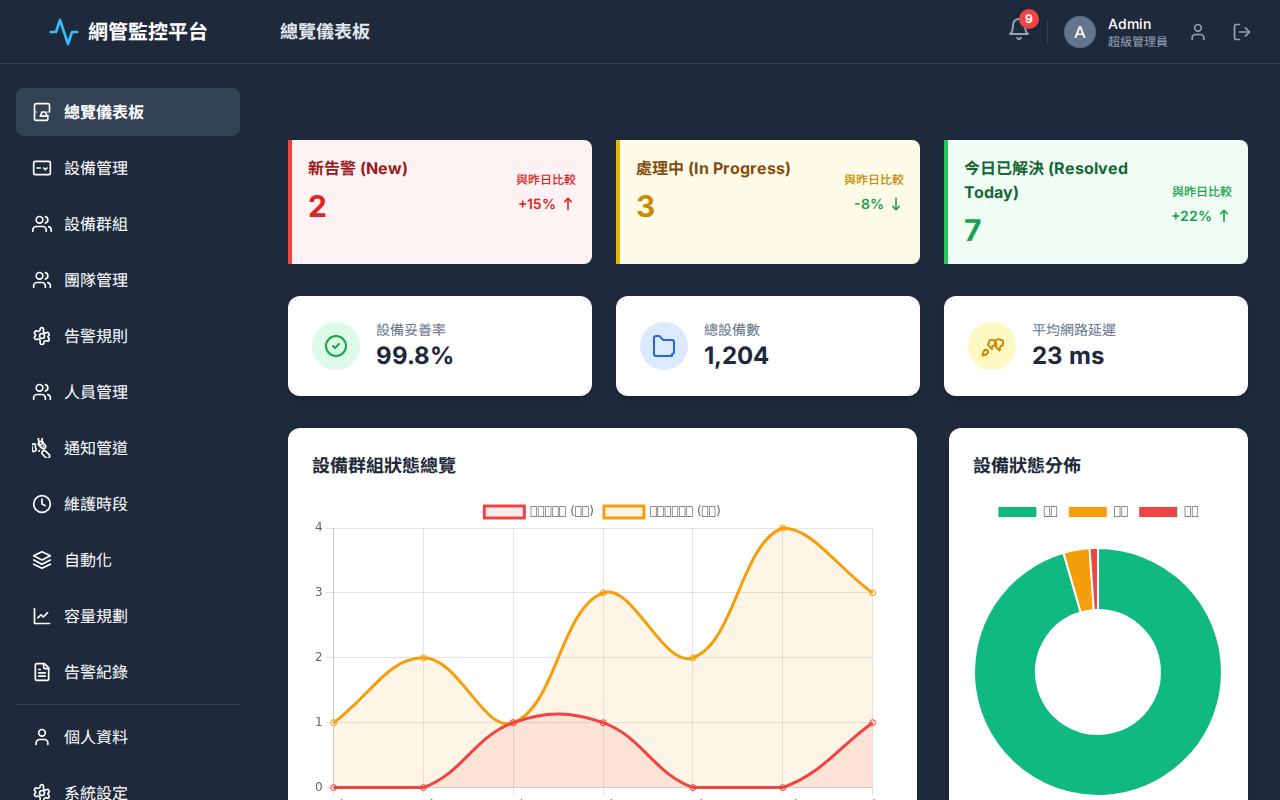
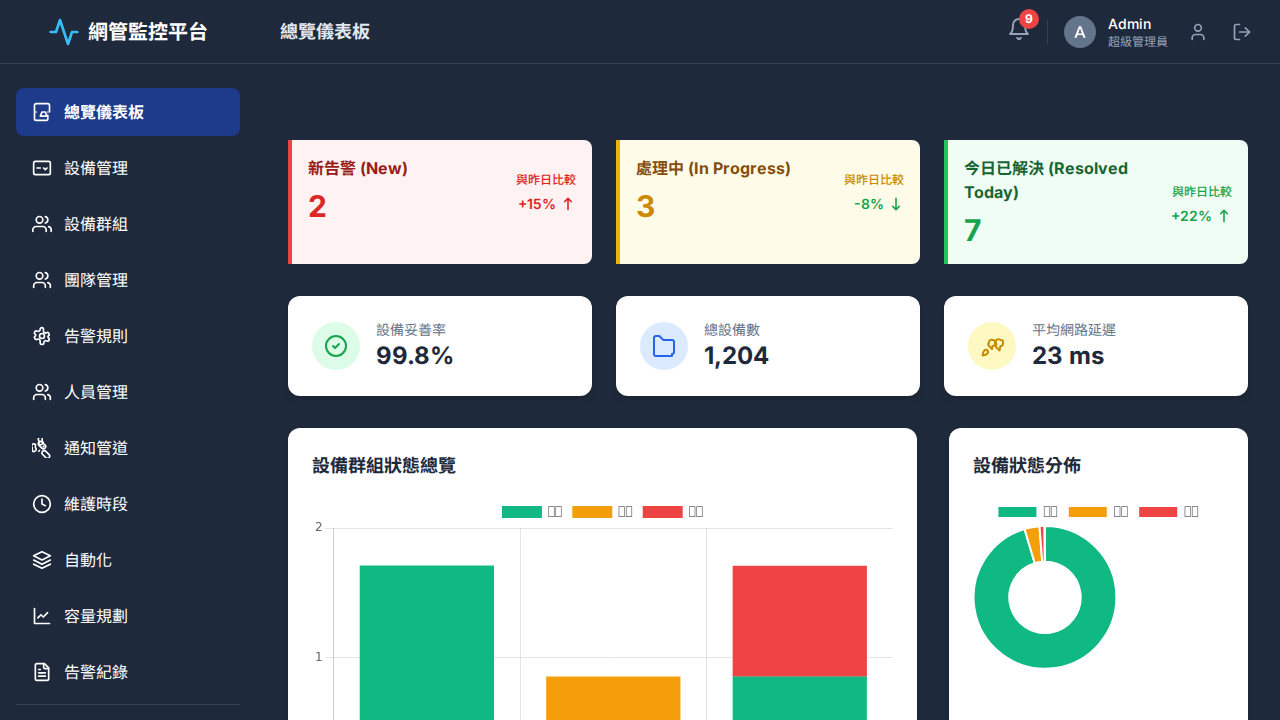
This commit introduces several UI improvements and fixes across the application.
Key changes include:

1.  **Profile Page**: The "Team Affiliation" field on the personal profile page has been changed from an editable multi-select dropdown to a read-only tag display. This improves clarity and prevents unintended edits.

2.  **Dashboard Chart**: The "Device Group Status Overview" chart on the dashboard has been corrected. It now uses a stacked bar chart to accurately display the count of devices in normal, warning, and error states for each device group, replacing the previous, incorrect line chart.

3.  **Input Field Styles**: A global CSS style has been added to darken the borders of all input fields, improving their visibility and contrast against white backgrounds, based on user feedback.

diff --git a/demo-page.html b/demo-page.html
@@ -89,6 +89,28 @@
       border-color: #3b82f6;
     }
 
+    /* Custom styles for better input visibility */
+    input[type="text"],
+    input[type="password"],
+    input[type="email"],
+    input[type="number"],
+    input[type="date"],
+    select,
+    textarea {
+      border: 1px solid #94a3b8; /* Corresponds to slate-400 */
+    }
+
+    input[type="text"]:focus,
+    input[type="password"]:focus,
+    input[type="email"]:focus,
+    input[type="number"]:focus,
+    input[type="date"]:focus,
+    select:focus,
+    textarea:focus {
+      border-color: #3b82f6; /* Corresponds to blue-500 */
+      box-shadow: 0 0 0 2px #bfdbfe; /* A ring effect like Tailwind's focus rings */
+    }
+
     /* Responsive Table Styles */
     @media (max-width: 768px) {
       .rwd-table thead {
@@ -1059,11 +1081,10 @@
                   <p id="profile-role" class="md:col-span-3 text-slate-800"></p>
                 </div>
                 <div class="grid grid-cols-1 md:grid-cols-4 items-start gap-4">
-                  <label for="profile-teams-select" class="font-medium text-slate-700 pt-2">所屬團隊</label>
-                  <select id="profile-teams-select" multiple
-                    class="md:col-span-3 block w-full rounded-md border-slate-300 shadow-sm focus:border-blue-500 focus:ring-blue-500 sm:text-sm">
-                    <!-- Options will be populated by JavaScript -->
-                  </select>
+                  <label class="font-medium text-slate-700 pt-1">所屬團隊</label>
+                  <div id="profile-teams-tags" class="md:col-span-3 flex flex-wrap gap-2">
+                    <!-- Tags will be populated by JavaScript -->
+                  </div>
                 </div>
                 <div class="grid grid-cols-1 md:grid-cols-4 items-center gap-4">
                   <label for="profile-language-select" class="font-medium text-slate-700">語言</label>
@@ -1468,28 +1489,55 @@
       // Chart.js Initialization
       const statusCtx = document.getElementById('statusChart').getContext('2d');
       new Chart(statusCtx, { type: 'doughnut', data: { labels: ['正常', '警告', '異常'], datasets: [{ data: [1150, 41, 13], backgroundColor: ['#10b981', '#f59e0b', '#ef4444'], hoverOffset: 4 }] }, options: { responsive: true, maintainAspectRatio: false } });
+    });
 
+    let groupStatusChartInstance = null; // To hold the chart instance
+
+    function renderGroupStatusChart() {
       const groupStatusCtx = document.getElementById('groupStatusChart').getContext('2d');
-      new Chart(groupStatusCtx, {
-        type: 'line',
+
+      // 1. Prepare data
+      const labels = mockData.deviceGroups.map(g => g.name);
+      const statuses = { normal: [], warning: [], error: [] };
+
+      mockData.deviceGroups.forEach(group => {
+        const counts = { normal: 0, warning: 0, error: 0 };
+        group.memberIds.forEach(deviceId => {
+          const device = mockData.devices.find(d => d.id === deviceId);
+          if (device) {
+            counts[device.status]++;
+          }
+        });
+        statuses.normal.push(counts.normal);
+        statuses.warning.push(counts.warning);
+        statuses.error.push(counts.error);
+      });
+
+      // 2. Destroy old chart if it exists
+      if (groupStatusChartInstance) {
+        groupStatusChartInstance.destroy();
+      }
+
+      // 3. Create new chart
+      groupStatusChartInstance = new Chart(groupStatusCtx, {
+        type: 'bar',
         data: {
-          labels: ['-6d', '-5d', '-4d', '-3d', '-2d', 'Yesterday', 'Today'],
+          labels: labels,
           datasets: [
             {
-              label: '核心交換器 (異常)',
-              data: [0, 0, 1, 1, 0, 0, 1],
-              borderColor: '#ef4444',
-              backgroundColor: 'rgba(239, 68, 68, 0.1)',
-              fill: true,
-              tension: 0.4
+              label: '正常',
+              data: statuses.normal,
+              backgroundColor: '#10b981',
             },
             {
-              label: '總公司防火牆 (警告)',
-              data: [1, 2, 1, 3, 2, 4, 3],
-              borderColor: '#f59e0b',
-              backgroundColor: 'rgba(245, 158, 11, 0.1)',
-              fill: true,
-              tension: 0.4
+              label: '警告',
+              data: statuses.warning,
+              backgroundColor: '#f59e0b',
+            },
+            {
+              label: '異常',
+              data: statuses.error,
+              backgroundColor: '#ef4444',
             }
           ]
         },
@@ -1497,16 +1545,25 @@
           responsive: true,
           maintainAspectRatio: false,
           scales: {
+            x: {
+              stacked: true,
+            },
             y: {
+              stacked: true,
               beginAtZero: true,
               ticks: {
                 stepSize: 1
               }
             }
+          },
+          plugins: {
+            tooltip: {
+              mode: 'index',
+            }
           }
         }
       });
-    });
+    }
 
     function renderUI() {
       if (!loggedInUser) return;
@@ -1534,6 +1591,7 @@
       initializeBatchOperations();
       initializeAutomationFeatures();
       initializeCapacityPlanning();
+      renderGroupStatusChart();
     }
 
 
@@ -3271,20 +3329,22 @@
         profileRole.textContent = roleMap[loggedInUser.role] || loggedInUser.role;
       }
 
-      // Find user's teams and populate dropdown
+      // Find user's teams and populate read-only tags
       const userPersonnel = mockData.personnel.find(p => p.name === loggedInUser.name);
-      const profileTeamsSelect = document.getElementById('profile-teams-select');
-      if (profileTeamsSelect && userPersonnel) {
-        profileTeamsSelect.innerHTML = ''; // Clear existing options
-        mockData.teams.forEach(team => {
-          const option = document.createElement('option');
-          option.value = team.id;
-          option.textContent = team.name;
-          if (userPersonnel.teamIds.includes(team.id)) {
-            option.selected = true;
-          }
-          profileTeamsSelect.appendChild(option);
-        });
+      const profileTeamsTags = document.getElementById('profile-teams-tags');
+      if (profileTeamsTags && userPersonnel) {
+        profileTeamsTags.innerHTML = ''; // Clear existing tags
+        const userTeams = mockData.teams.filter(team => userPersonnel.teamIds.includes(team.id));
+        if (userTeams.length > 0) {
+          userTeams.forEach(team => {
+            const tag = document.createElement('span');
+            tag.className = 'bg-slate-200 text-slate-700 text-sm font-medium px-3 py-1 rounded-full';
+            tag.textContent = team.name;
+            profileTeamsTags.appendChild(tag);
+          });
+        } else {
+          profileTeamsTags.innerHTML = '<p class="text-slate-500 text-sm">未加入任何團隊</p>';
+        }
       }
 
 
@@ -3308,8 +3368,6 @@
       if (saveProfileInfoBtn) {
         saveProfileInfoBtn.addEventListener('click', () => {
           const newName = document.getElementById('profile-name-input').value;
-          const profileTeamsSelect = document.getElementById('profile-teams-select');
-          const selectedTeamIds = Array.from(profileTeamsSelect.selectedOptions).map(opt => parseInt(opt.value, 10));
 
           const oldName = loggedInUser.name;
           loggedInUser.name = newName;
@@ -3317,8 +3375,7 @@
           // Update mockData.personnel as well
           const userInPersonnel = mockData.personnel.find(p => p.name === oldName || p.name === newName);
           if (userInPersonnel) {
-              userInPersonnel.name = newName;
-              userInPersonnel.teamIds = selectedTeamIds;
+            userInPersonnel.name = newName;
           }
           // re-render user name in sidebar
           document.getElementById('user-name').textContent = newName;

diff --git a/jules-scratch/verification/verify_changes.py b/jules-scratch/verification/verify_changes.py
@@ -1,0 +1,77 @@
+import os
+from playwright.sync_api import sync_playwright, Page, expect
+
+# Define user roles and credentials
+USERS = {
+    "admin": {"username": "admin", "password": "admin"},
+    "manager": {"username": "manager", "password": "manager"},
+    "member": {"username": "member", "password": "member"},
+}
+
+# Define the absolute path to the HTML file
+# Using os.path.abspath is more robust
+file_path = f"file://{os.path.abspath('demo-page.html')}"
+output_dir = "jules-scratch/verification"
+
+def run_verification():
+    """
+    Launches Playwright, logs in as each user, and takes screenshots
+    of the dashboard and profile pages.
+    """
+    with sync_playwright() as p:
+        browser = p.chromium.launch(headless=True)
+        page = browser.new_page()
+
+        for role, credentials in USERS.items():
+            print(f"--- Verifying as role: {role} ---")
+
+            # 1. Login
+            print("Navigating to login page...")
+            page.goto(file_path)
+
+            print("Entering credentials...")
+            # Scope the locators to the login form to avoid ambiguity
+            login_form = page.locator("#login-form")
+            login_form.get_by_label("帳號").fill(credentials["username"])
+            login_form.get_by_label("密碼").fill(credentials["password"])
+            login_form.get_by_role("button", name="登入").click()
+
+            # Wait for the main application to load by checking for the breadcrumb
+            expect(page.locator("#breadcrumb")).to_have_text("總覽儀表板", timeout=10000)
+            print("Login successful.")
+
+            # 2. Screenshot Dashboard
+            dashboard_screenshot_path = os.path.join(output_dir, f"dashboard-{role}.png")
+            print(f"Taking screenshot of dashboard: {dashboard_screenshot_path}")
+            page.screenshot(path=dashboard_screenshot_path)
+
+            # 3. Navigate to Profile and Screenshot
+            print("Navigating to profile page...")
+            # Use the sidebar link to navigate
+            profile_link = page.get_by_role("link", name="個人資料")
+            profile_link.click()
+
+            # Wait for the profile page to load
+            expect(page.get_by_role("heading", name="個人資訊")).to_be_visible(timeout=10000)
+
+            profile_screenshot_path = os.path.join(output_dir, f"profile-{role}.png")
+            print(f"Taking screenshot of profile page: {profile_screenshot_path}")
+            page.screenshot(path=profile_screenshot_path)
+
+            # 4. Logout
+            print("Logging out...")
+            logout_button = page.get_by_title("登出")
+            logout_button.click()
+
+            # Wait for the login form to be visible again
+            expect(page.get_by_role("heading", name="網管監控平台")).to_be_visible(timeout=10000)
+            print(f"Logout successful for {role}.")
+
+        browser.close()
+        print("\nVerification complete for all roles.")
+
+if __name__ == "__main__":
+    # Ensure the output directory exists
+    if not os.path.exists(output_dir):
+        os.makedirs(output_dir)
+    run_verification()

diff --git a/jules-scratch/update_screenshots.py b/jules-scratch/update_screenshots.py
@@ -1,0 +1,51 @@
+import os
+from playwright.sync_api import sync_playwright, Page, expect
+
+# Define the absolute path to the HTML file
+file_path = f"file://{os.path.abspath('demo-page.html')}"
+output_dir = "jules-scratch"
+
+def update_screenshots():
+    """
+    Logs in as admin and overwrites the main dashboard and profile screenshots.
+    """
+    with sync_playwright() as p:
+        browser = p.chromium.launch(headless=True)
+        page = browser.new_page()
+
+        print("--- Updating main screenshots as admin ---")
+
+        # 1. Login
+        print("Navigating to login page...")
+        page.goto(file_path)
+
+        print("Entering credentials...")
+        login_form = page.locator("#login-form")
+        login_form.get_by_label("帳號").fill("admin")
+        login_form.get_by_label("密碼").fill("admin")
+        login_form.get_by_role("button", name="登入").click()
+
+        expect(page.locator("#breadcrumb")).to_have_text("總覽儀表板", timeout=10000)
+        print("Login successful.")
+
+        # 2. Screenshot Dashboard
+        dashboard_screenshot_path = os.path.join(output_dir, "dashboard.png")
+        print(f"Updating screenshot: {dashboard_screenshot_path}")
+        page.screenshot(path=dashboard_screenshot_path)
+
+        # 3. Navigate to Profile and Screenshot
+        print("Navigating to profile page...")
+        profile_link = page.get_by_role("link", name="個人資料")
+        profile_link.click()
+
+        expect(page.get_by_role("heading", name="個人資訊")).to_be_visible(timeout=10000)
+
+        profile_screenshot_path = os.path.join(output_dir, "profile.png")
+        print(f"Updating screenshot: {profile_screenshot_path}")
+        page.screenshot(path=profile_screenshot_path)
+
+        browser.close()
+        print("\nFinished updating screenshots.")
+
+if __name__ == "__main__":
+    update_screenshots()
